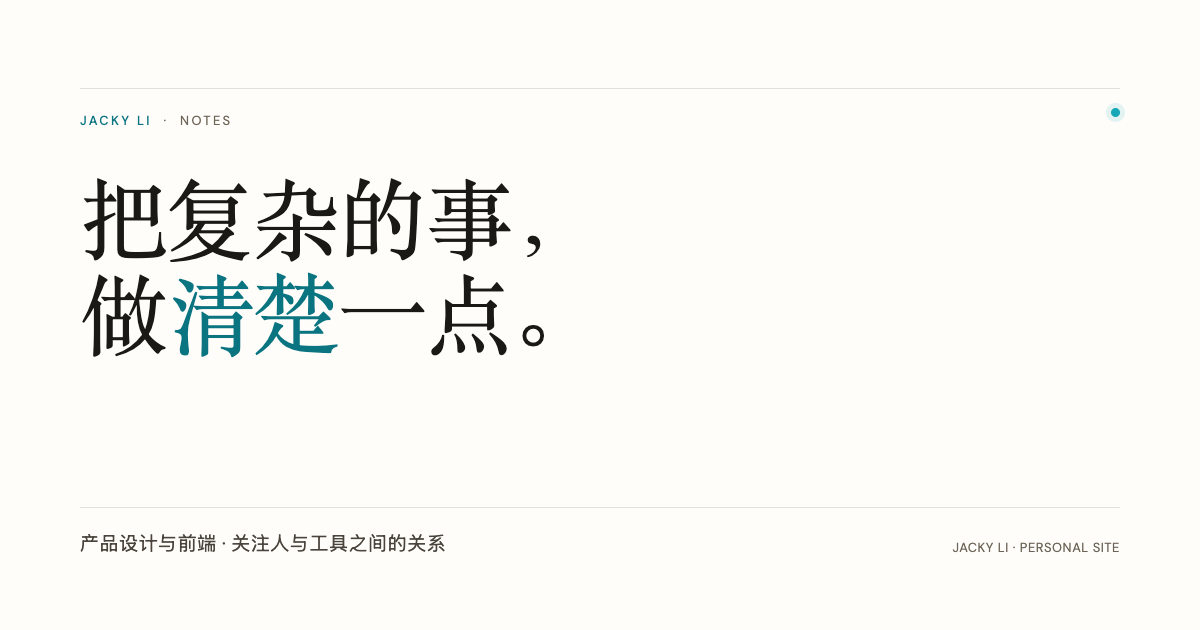
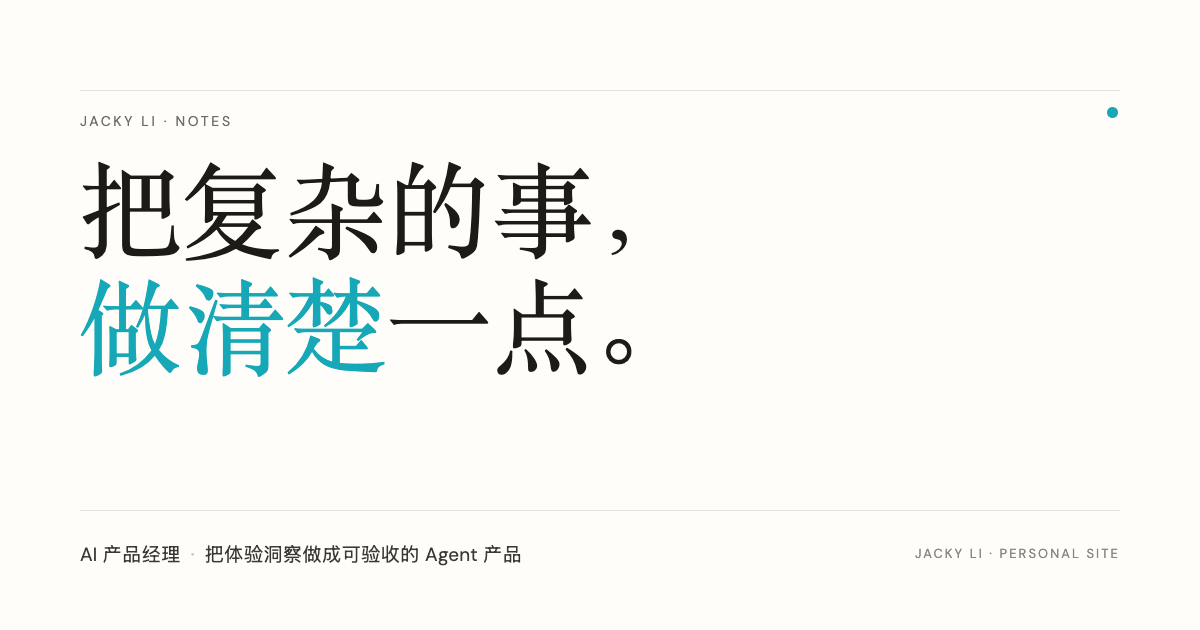
content: replace placeholder experience, projects and OG text with real background
Made-with: Proma

diff --git a/src/data/projects.ts b/src/data/projects.ts
@@ -1,7 +1,6 @@
 /**
- * 个人项目。
+ * 个人 / 主导项目。
  *
- * TODO(M0): 项目名称、描述、外链均为视觉稿示例，上线前替换。
  * 不填 url 时卡片仍展示，但没有外链箭头、不可点击。
  */
 export type Project = {
@@ -14,17 +13,31 @@ export type Project = {
 
 export const projects: Project[] = [
   {
-    name: 'Look',
-    summary: '把书签、摘录和零散想法放进同一个可检索的视图。',
-    url: 'https://example.com/look',
-    tags: ['产品', 'Astro', '阅读'],
-    mark: 'L',
+    name: '虚拟用户访谈',
+    summary:
+      '用虚拟用户 Agent 替代高成本真人调研，跑通场景识别、访谈执行到结论验收的完整流程。单次调研从 5 万元降到 3 千元，周期从 2–4 周压缩到约 2 天。',
+    tags: ['AI Agent', '用户研究', '0→1'],
+    mark: 'V',
   },
   {
-    name: 'Tick',
-    summary: '极简的每日习惯打卡，一屏之内完成记录。',
-    url: 'https://example.com/tick',
-    tags: ['iOS', 'SwiftUI', '习惯'],
-    mark: 'T',
+    name: 'VOC 洞察 Agent',
+    summary:
+      '按 PA / AA / CA 分层定义公司级多 Agent 规格与编排，把依赖个人经验的 VOC 洞察变成可验收、可复用的流程 Agent。统筹 4 个 PA 与 35 个 AA，单次耗时 4–5 天降到约 1 小时。',
+    tags: ['Multi Agent', 'Spec', '流程编排'],
+    mark: 'O',
+  },
+  {
+    name: 'BEES 体验数据系统',
+    summary:
+      '全链路 VOC 与品质闭环平台，围绕问题识别、归因、处置、验证、沉淀，把体验问题真正推进到 Owner 解决。承接 117 万+ 已打标 VOC，覆盖 15 个数据源、232 个品牌。',
+    tags: ['数据产品', 'VOC', '0→1'],
+    mark: 'B',
+  },
+  {
+    name: 'BEC 最佳体验目录',
+    summary:
+      '把「用户最理想体验」做成跨软硬件的品类标准目录，统一体验语言、指导设计与测评，并生成 Agent 让人人都能查。覆盖 17 个品类，沉淀 448 条体验增量认知。',
+    tags: ['方法论', '体验标准', 'Agent'],
+    mark: 'C',
   },
 ];

diff --git a/src/data/experience.ts b/src/data/experience.ts
@@ -1,8 +1,8 @@
 /**
  * 工作经历。
  *
- * TODO(M0): 公司、年份和描述均为视觉稿示例，上线前替换为真实经历。
  * 数组顺序就是展示顺序，按时间倒序排列。
+ * `highlights` 可选，用于在经历下补充可验证的成果要点；不填时只展示 summary。
  */
 export type Experience = {
   start: string;
@@ -10,28 +10,22 @@ export type Experience = {
   role: string;
   org: string;
   summary: string;
+  highlights?: string[];
 };
 
 export const experiences: Experience[] = [
   {
-    start: '2023',
+    start: '2024',
     end: 'present',
-    role: '产品负责人',
-    org: '栖木科技',
-    summary: '负责一款协作工具从 0 到 1，带 6 人小组，完成首个付费版本与设计系统。',
-  },
-  {
-    start: '2021',
-    end: '2023',
-    role: '高级产品设计师',
-    org: '未名工作室',
-    summary: '主导工作台改版，把核心任务路径从 5 步压缩到 3 步，次周留存提升 12%。',
-  },
-  {
-    start: '2019',
-    end: '2021',
-    role: '交互设计师',
-    org: '某 SaaS 团队',
-    summary: '做 B 端后台与组件规范，维护 40 多个组件的使用文档。',
+    role: '产品经理',
+    org: '安克创新 · 最佳体验 ADT',
+    summary:
+      '负责体验域 AI 产品从 0 到 1：把用户调研、VOC 洞察与体验标准做成可验收、可复用的 Agent 产品。',
+    highlights: [
+      '虚拟用户访谈平台：单次调研成本 5 万 → 3 千，周期 2–4 周 → 约 2 天，上线首月 39 份有效报告。',
+      'VOC 洞察 Agent：统筹 4 PA + 35 AA，年运行约 2,000 次，单次 4–5 天 → 约 1 小时。',
+      'BEES 体验数据系统：承接 117 万+ 已打标 VOC，覆盖 15 数据源 / 232 品牌。',
+      'VOC 智能打标：金标 F1 75% → 92%，人工复核约 100% → 20%。',
+    ],
   },
 ];

diff --git a/src/data/site.ts b/src/data/site.ts
@@ -8,9 +8,9 @@ const email = 'jackylilsh@163.com';
 
 export const site = {
   name: 'Jacky Li',
-  title: 'Jacky Li — 产品设计与前端',
+  title: 'Jacky Li — AI 产品经理',
   description:
-    'Jacky Li 的个人站点。产品设计与前端，关注人与工具之间的关系，记录做过的事和一些没地方放的思考。',
+    'Jacky Li 的个人站点。AI 产品经理，专注把体验洞察做成可验收的 Agent 产品，记录做过的事和一些没地方放的思考。',
   tagline: '因为相信所以热爱！持续探索—让热爱有回响！',
   /* 支持行内 HTML（用于强调片段） */
   intro:

diff --git a/src/styles/global.css b/src/styles/global.css
@@ -559,6 +559,34 @@ html[data-theme="dark"] .icon-moon {
   line-height: 1.7;
 }
 
+.exp-highlights {
+  display: grid;
+  gap: 6px;
+  max-width: 560px;
+  margin: 10px 0 0;
+  padding: 0;
+  list-style: none;
+}
+
+.exp-highlights li {
+  position: relative;
+  padding-left: 14px;
+  color: var(--muted);
+  font-size: 13.5px;
+  line-height: 1.65;
+}
+
+.exp-highlights li::before {
+  content: '';
+  position: absolute;
+  left: 2px;
+  top: 0.62em;
+  width: 3px;
+  height: 3px;
+  border-radius: 50%;
+  background: var(--line-strong);
+}
+
 .divider {
   height: 1px;
   margin: 28px 0 26px;
